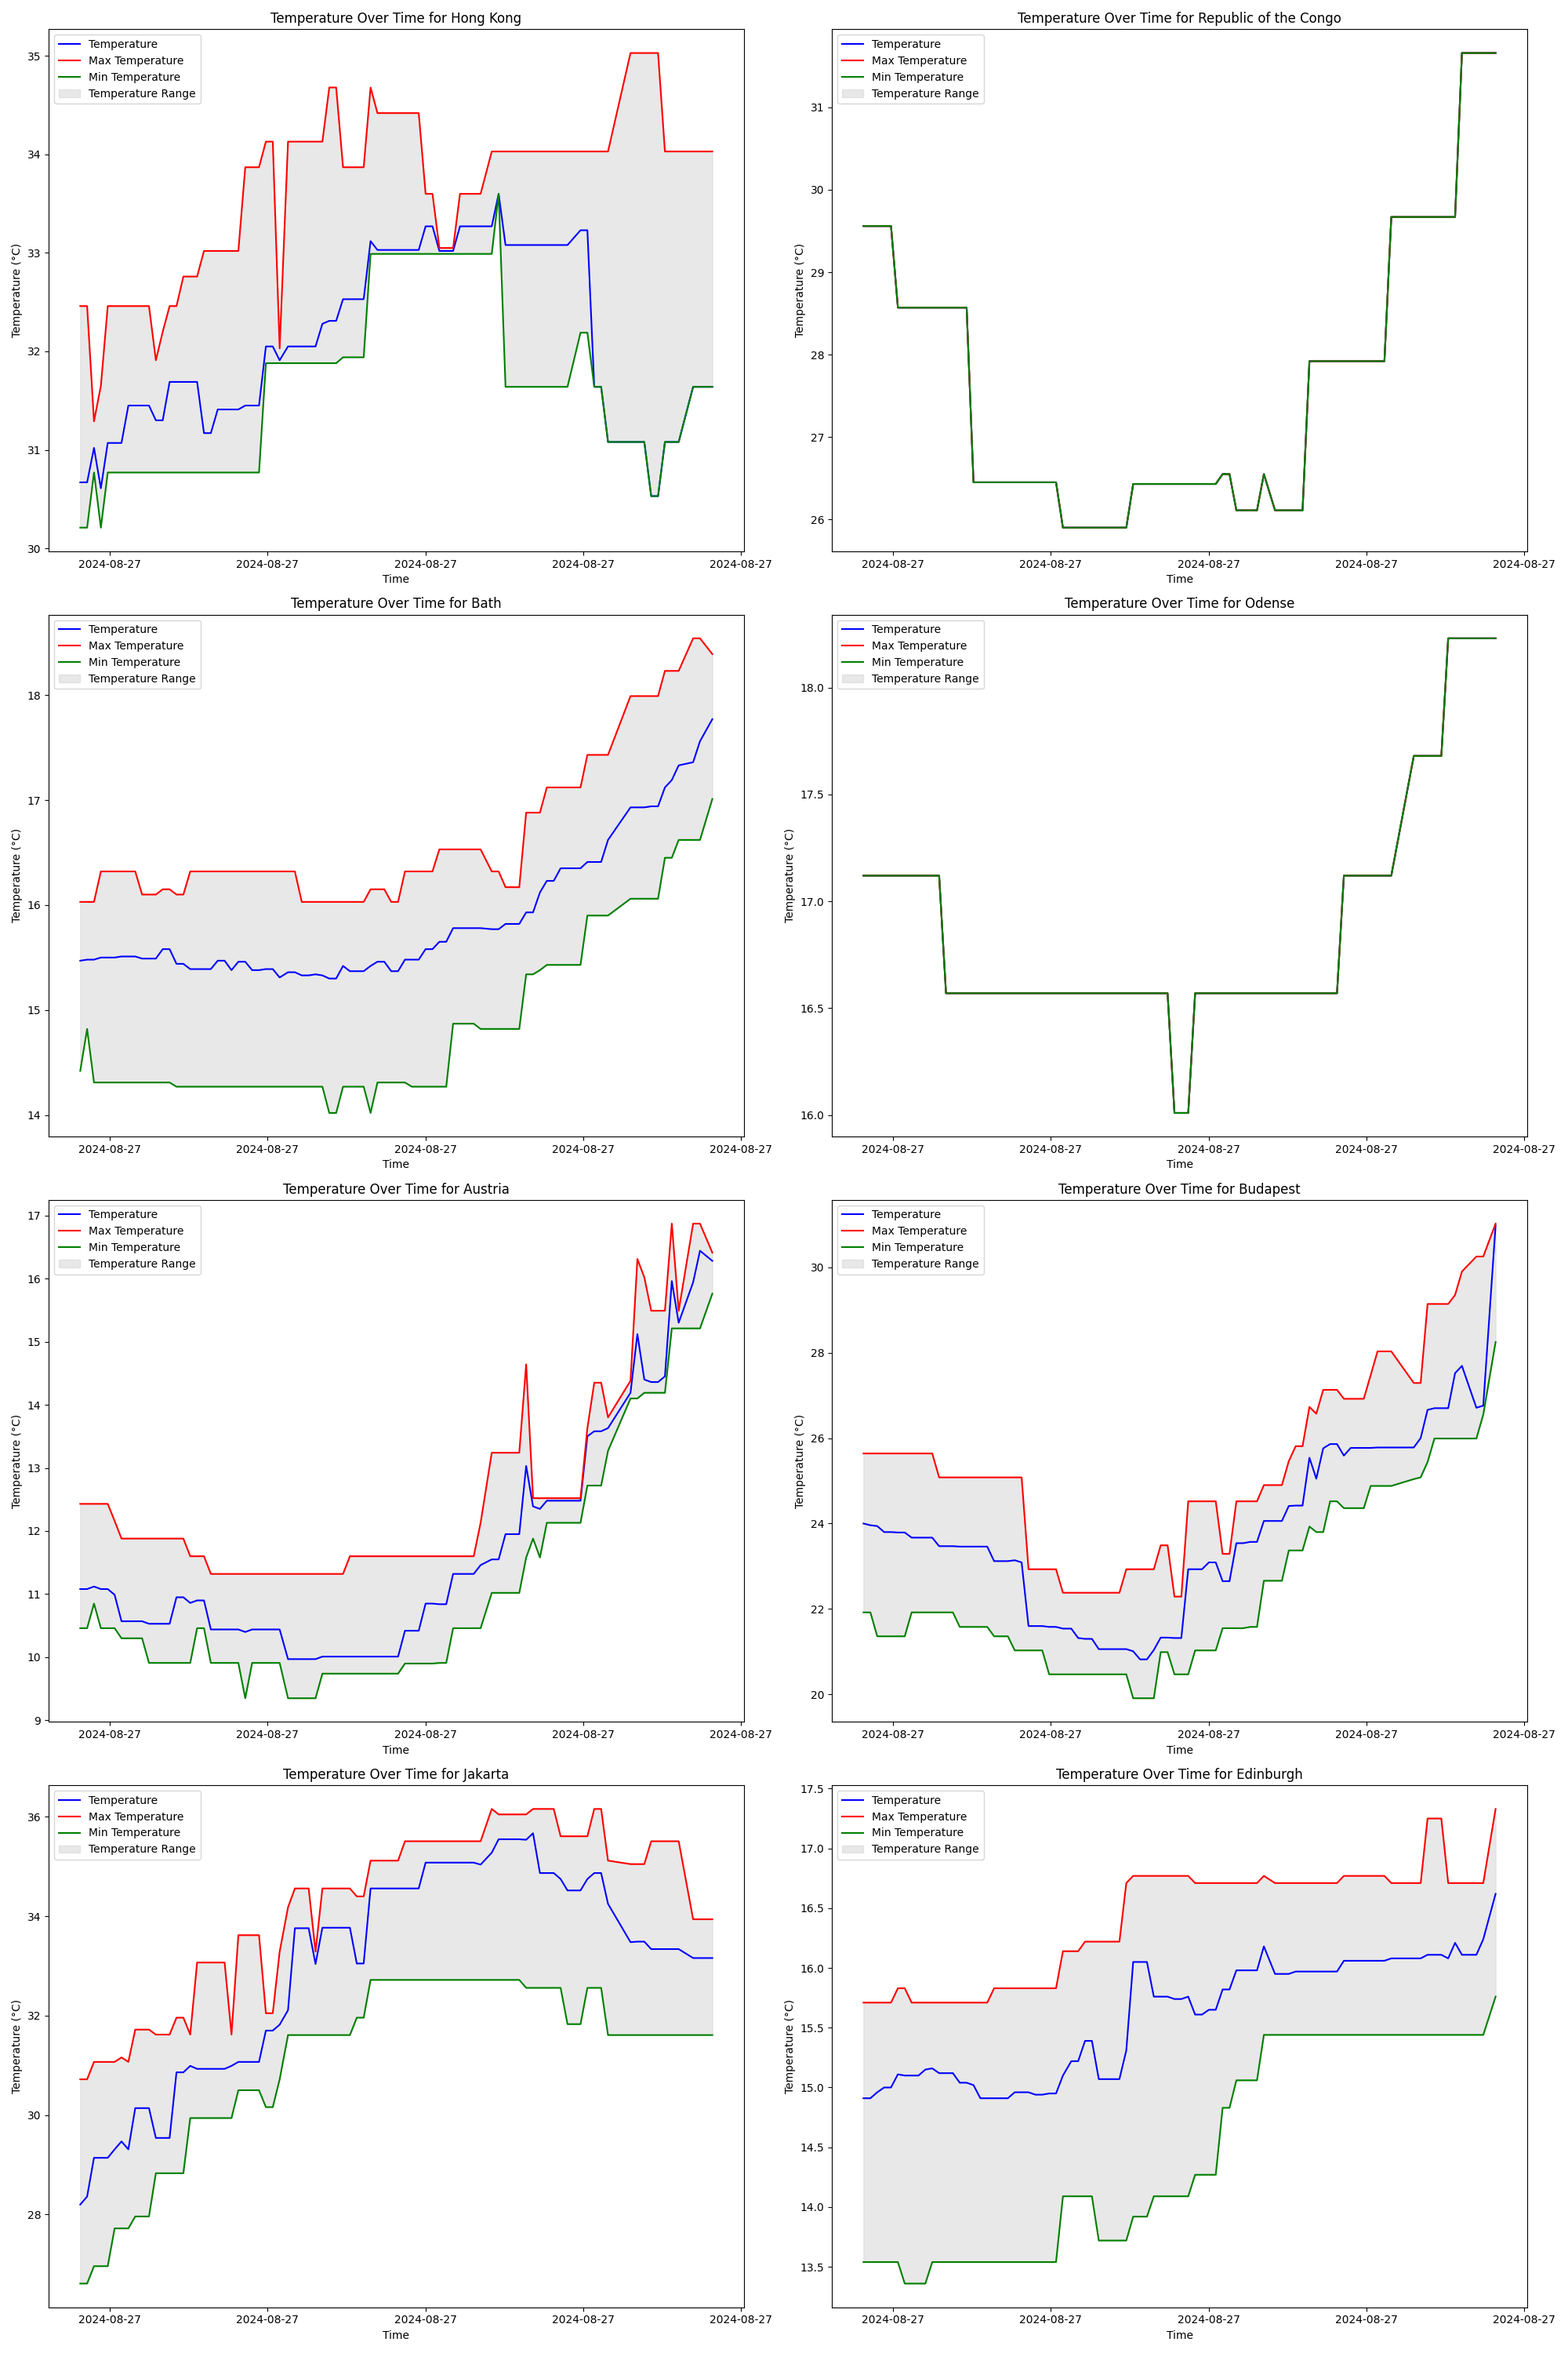
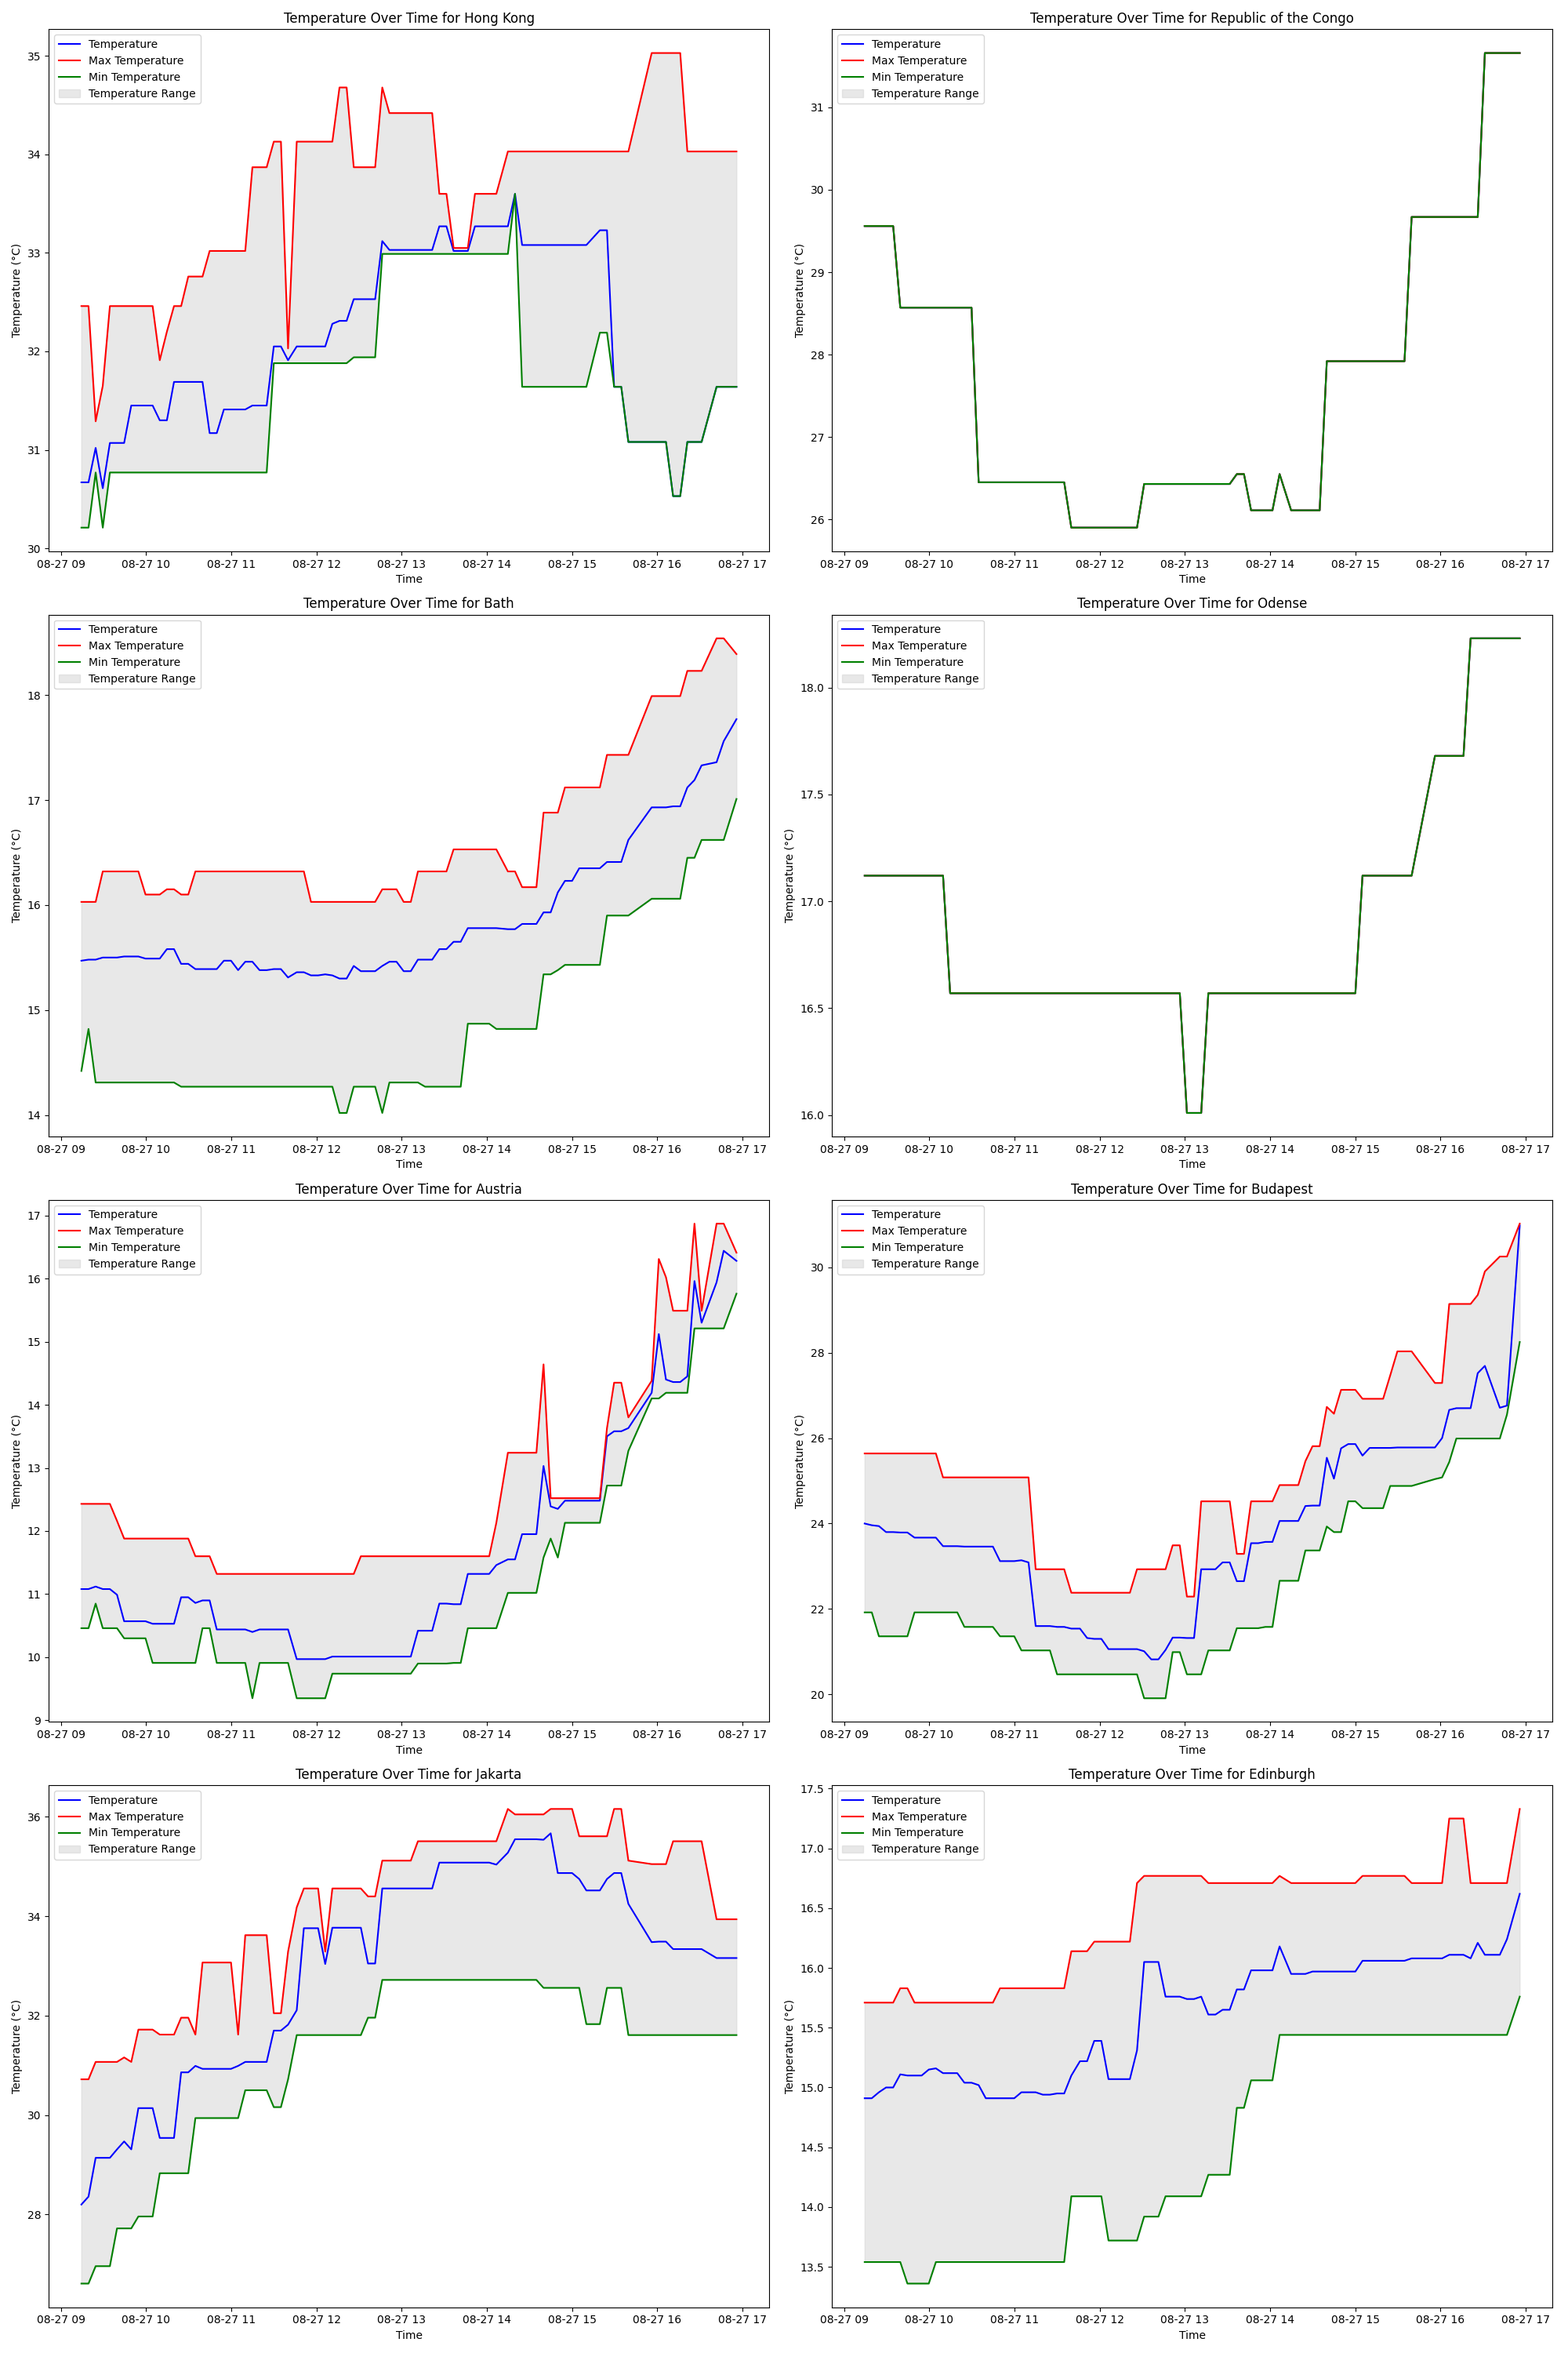
README update

diff --git a/main.py b/main.py
@@ -191,7 +191,6 @@ class WeatherApp:
         self.message_area.config(state="disabled")
 
     # input and button execution
-
     def fetch_data(self):
         if not self.schedule_entry.get():
             messagebox.showwarning("Warning", "Schedule Minutes cannot be empty.")
@@ -307,8 +306,7 @@ class WeatherApp:
         except Exception as e:
             messagebox.showerror("Error", f"An error occurred during output: {e}")
 
-    # below are ETL , visualisation , export csv
-
+    # ETL , visualisation , export csv
     def extract(self):
         conn = sqlite3.connect("weather_data.db")
         your_city = pd.read_sql("SELECT DISTINCT city_name FROM weather_data", conn)[
@@ -360,7 +358,7 @@ class WeatherApp:
                     alpha=0.5,
                     label="Temperature Range",
                 )
-                ax.xaxis.set_major_locator(ticker.MaxNLocator(nbins=5))
+                # ax.xaxis.set_major_locator(ticker.MaxNLocator(nbins=5))
                 ax.set_title(f"Temperature Over Time for {city}")
                 ax.set_xlabel("Time")
                 ax.set_ylabel("Temperature (°C)")
@@ -368,6 +366,7 @@ class WeatherApp:
 
         plt.tight_layout()
         plt.savefig("temperature_over_time.png")
+
         plt.close()
 
         fig, axs = plt.subplots(4, 2, figsize=(20, 35))

diff --git a/README.md b/README.md
@@ -1,6 +1,8 @@
 # Overview
 The Weather Data Application is a Python-based tool designed to fetch, analyze, and visualize real-time weather data from various cities around the world. This application leverages the OpenWeatherMap API to gather weather information and provides a user-friendly interface for data extraction, cleaning, visualization, and reporting.
 # Features
+<img src="Interface.png" />
+
 - Fetch real-time weather data for multiple cities.
 - tore weather data in a SQLite database.
 - Extract, clean, and visualize data using various Python libraries.
@@ -13,6 +15,7 @@ The Weather Data Application is a Python-based tool designed to fetch, analyze, 
 - Matplotlib and Seaborn: For data visualization.
 - Requests: For making HTTP requests to the weather API.
 - Schedule: For scheduling periodic data fetching.
+
 # Installation
 1. Clone the repository:
 ```bash
@@ -38,6 +41,17 @@ python main.py
 4. Clean Data: Click the "Clean Data" button to preprocess the extracted data.
 5. Visualize Data: Use the "Visualize Data" button to generate visual representations of the weather data.
 6. Output Report: Click the "Output Report" button to generate a CSV report of the weather data analysis.
+# Output
+<div style="display: flex; flex-direction: column; align-items: flex-start;"> 
+<div style="display: flex; justify-content: space-between; width: 100%;"> <span style="font-weight: bold; text-align: left; width: 48%;">Temperature Over Time</span> 
+<span style="font-weight: bold; text-align: left; width: 48%;">Correlation Heatmap</span> 
+</div> 
+<div style="display: flex; justify-content: space-between; width: 100%;"> 
+<img src="temperature_over_time.png" alt="Temperature Over Time" style="width: 48%;"/> 
+<img src="correlation_heatmap.png" alt="Correlation Heatmap" style="width: 48%;"/> 
+</div> 
+</div>
+
 # Project Structure
 ```
 weather-data-application/
